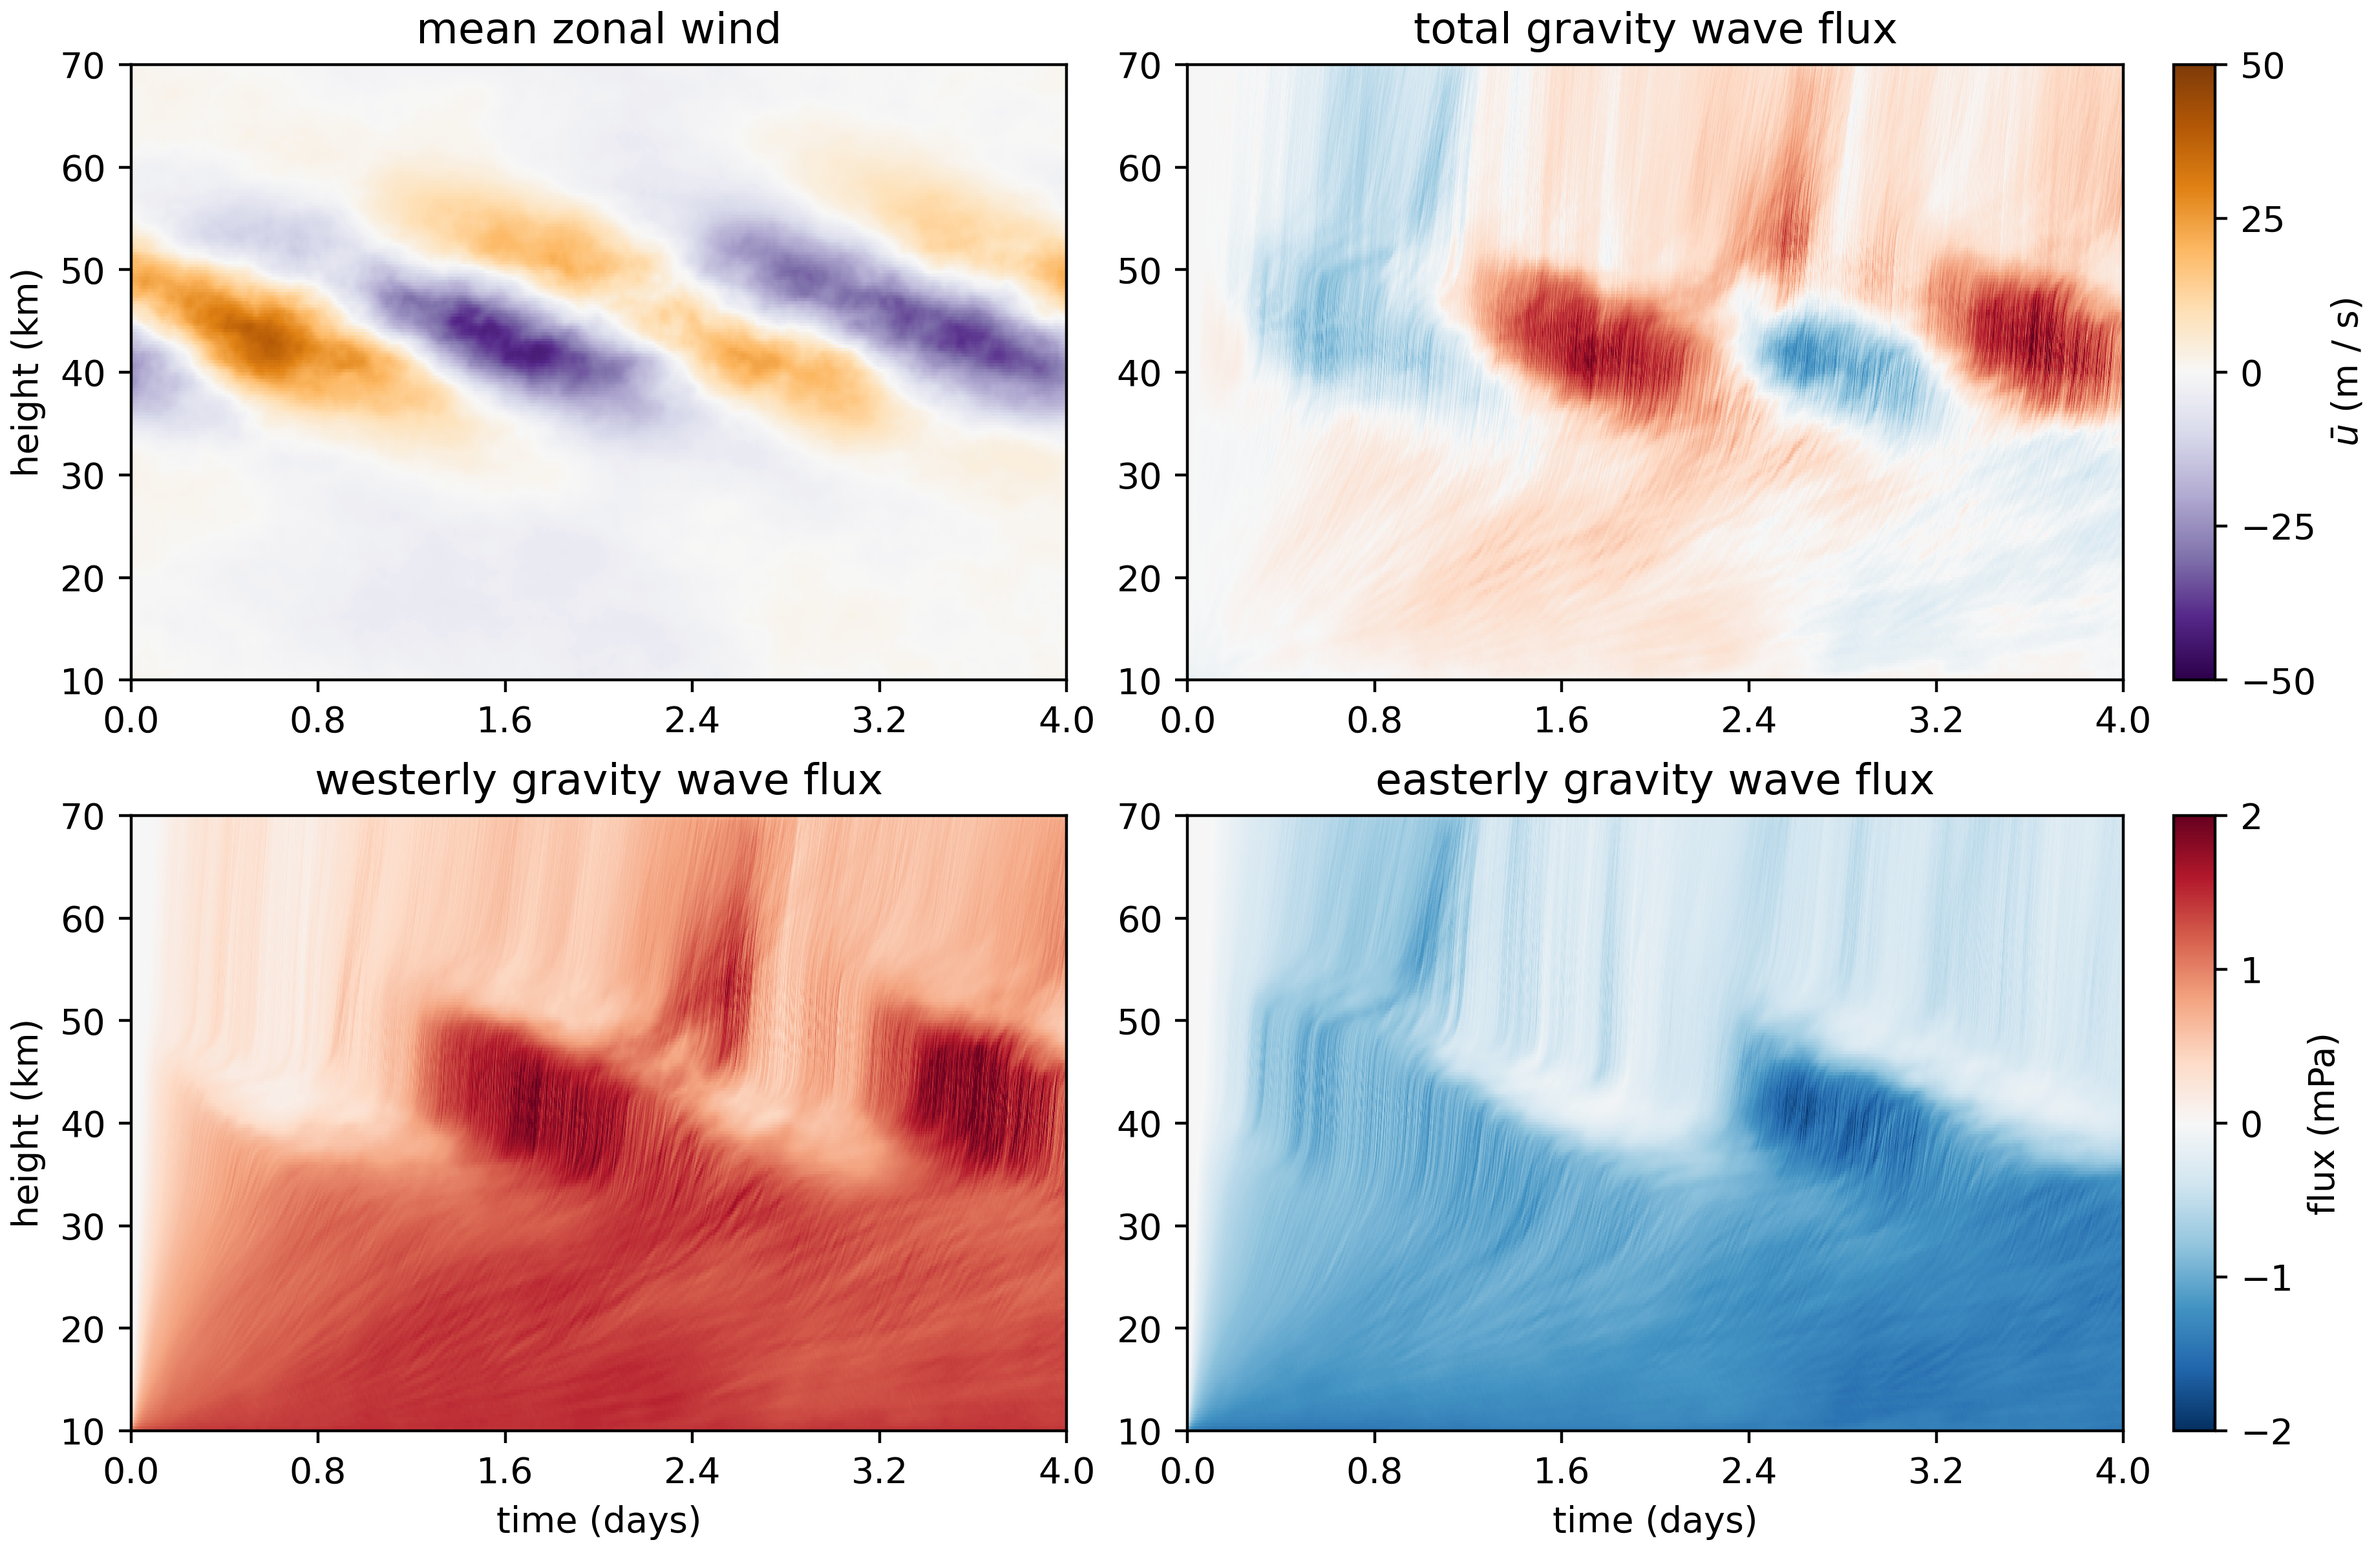
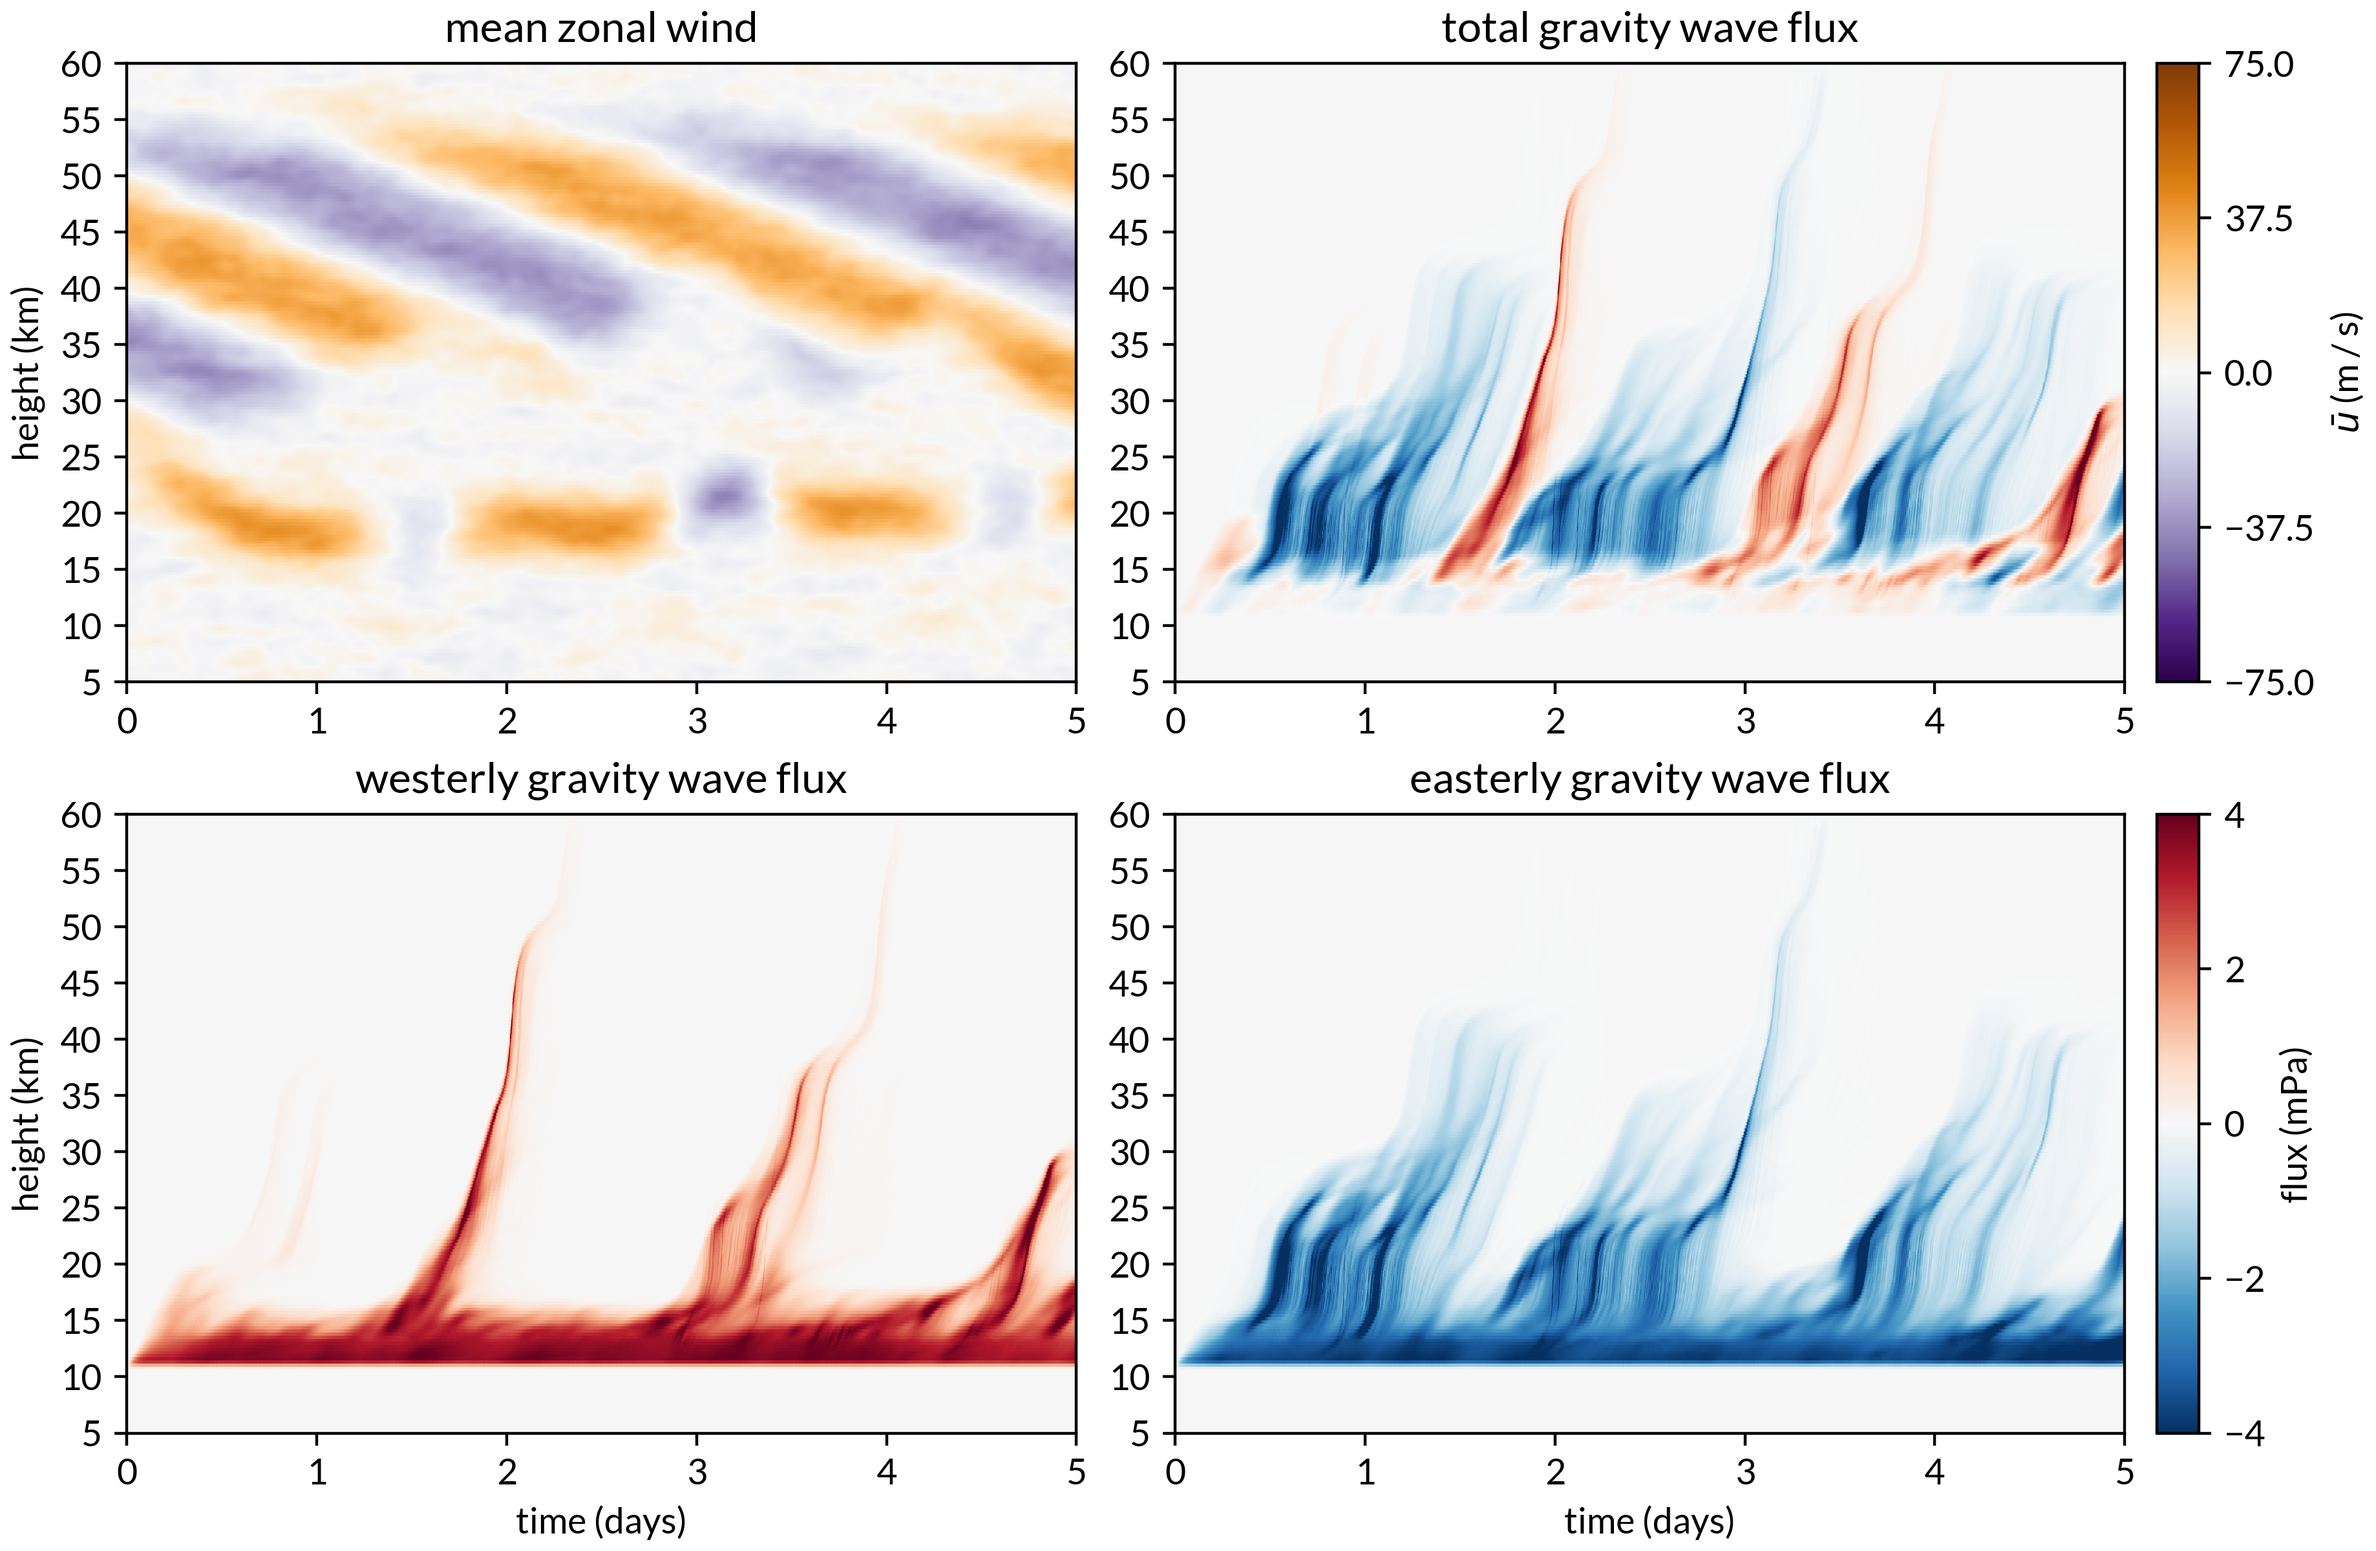
updated README

diff --git a/acceleration/scenarios/idealized.py b/acceleration/scenarios/idealized.py
@@ -6,7 +6,11 @@ import xarray as xr
 
 from msgwam import config
 from msgwam.constants import EPOCH
-from msgwam.utils import get_vertical_grids, make_colored_noise as noise
+from msgwam.utils import (
+    get_rho,
+    get_vertical_grids,
+    make_colored_noise as noise
+)
 
 from ..hyperparameters import scenarios as hp
 
@@ -40,9 +44,11 @@ def get_gated_oscillation(seed: int=177485) -> xr.Dataset:
     env = np.exp(-0.5 * ((z - z_gate[:, None]) / hp.gate_width) ** 2)
     u = env * gate[:, None]
 
-    tides = np.sin(2 * np.pi * (days[:, None] + z / hp.wvl))
+    tides = np.sin(2 * np.pi * (days[:, None] / 3 + z / hp.wvl))
     z_tide = noise(days, *hp.time_scales, *hp.z_tide_bounds, rng)
-    env = _make_env(z, z_tide[:, None], width=hp.shear_width)
+    z_top = 50e3 * np.ones_like(z_tide)[:, None]
+
+    env = _make_env(z, z_tide[:, None], z_top, width=hp.shear_width)
     u = u + env * hp.wave_amp * tides
 
     u = u + hp.noise_amp * noise(
@@ -56,6 +62,11 @@ def get_gated_oscillation(seed: int=177485) -> xr.Dataset:
     data = {'time' : time, 'z_centers' : z}
     data['u'] = (('time', 'z_centers'), u)
     data['v'] = (('time', 'z_centers'), v)
+
+    ones = np.ones((len(time), len(z)))
+    data['rho'] = (('time', 'z_centers'), get_rho(z) * ones)
+    data['N2'] = (('time', 'z_centers'), config.N_ref ** 2 * ones)
+    data['G2'] = (('time', 'z_centers'), 0 * ones)
 
     return xr.Dataset(data)
 

diff --git a/msgwam/plotting.py b/msgwam/plotting.py
@@ -100,7 +100,7 @@ def plot_integration(ds: xr.Dataset, output_path: str) -> None:
     axes = [fig.add_subplot(spec[j // 2, j % 2]) for j in range(4)]
     caxes = [fig.add_subplot(spec[i, 2]) for i in range(2)]
 
-    _, u_cbar = plot_time_series(ds['u'], 50, [axes[0], caxes[0]], 'PuOr_r')
+    _, u_cbar = plot_time_series(ds['u'], 75, [axes[0], caxes[0]], 'PuOr_r')
     u_cbar.set_label('$\\bar{u}$ (m / s)') # type: ignore
     axes[0].set_title('mean zonal wind')
 
@@ -108,7 +108,7 @@ def plot_integration(ds: xr.Dataset, output_path: str) -> None:
     pmfs = [ds['pmf_e'] + ds['pmf_w'], ds['pmf_e'], ds['pmf_w']]
 
     for name, pmf, ax in zip(names, pmfs, axes[1:]):
-        _, cbar = plot_time_series(1000 * pmf, 3, [ax, caxes[1]])
+        _, cbar = plot_time_series(1000 * pmf, 4, [ax, caxes[1]])
         cbar.set_label('flux (mPa)') # type: ignore
         ax.set_title(f'{name} gravity wave flux')
         

diff --git a/msgwam/__main__.py b/msgwam/__main__.py
@@ -4,10 +4,7 @@ from . import config
 from .integration import integrate
 from .plotting import (
     init_plotting,
-    plot_boundary,
-    plot_integration,
-    plot_ray_count,
-    plot_source
+    plot_integration
 )
 
 if __name__ == '__main__':
@@ -16,10 +13,4 @@ if __name__ == '__main__':
 
     ds = integrate()
     ds.to_netcdf(f'data/{config.name}/integration.nc')
-
-    plot_boundary(ds, f'plots/{config.name}/boundary.png')
     plot_integration(ds, f'plots/{config.name}/integration.png')
-    plot_source(f'plots/{config.name}/source.png')
-
-    if config.propagator_type == 'transient':
-        plot_ray_count(ds, f'plots/{config.name}/ray-count.png')

diff --git a/msgwam/means/base.py b/msgwam/means/base.py
@@ -216,7 +216,7 @@ class MeanState:
             v = 5 * get_bump(self.z_centers, center + 15e3, 10e3)
             v = v - 5 * get_bump(self.z_centers, center - 15e3, 10e3)
 
-            return np.vstack((u, v)), rho, config.N_ref * ones, G2 * ones
+            return np.vstack((u, v)), rho, config.N_ref * ones, G2
 
         kwargs = {
             'seconds' : min(config.tau_nudge / 4, 86400),

diff --git a/acceleration/scenarios/__init__.py b/acceleration/scenarios/__init__.py
@@ -1,6 +1,7 @@
 from msgwam import config
 
 from .mima import get_mima_scenario
+from .idealized import get_gated_oscillation
 from .plotting import plot_mean_state, plot_mean_scales
 
 __all__ = [

diff --git a/README.md b/README.md
@@ -11,15 +11,17 @@ parameterization, including machine learning approaches.
 
 ## From the command line
 
-To run the ray tracer you will need a Python 3 interpreter and an environment
-configured as in `environment.yml`. The ray tracer can be started by calling the
-`msgwam` directory as a module. You must pass a path to a configuration TOML
-file. For example
+The ray tracer can be started by calling the `msgwam` directory as a module. You
+must pass a path to a configuration TOML file. For example
 ```
+mkdir -p data/example/input
+mkdir -p plots/example
+
+python -m acceleration config/example.toml save-mean-state:gated-oscillation
 python -m msgwam config/gaussians.toml
 ```
-will save the integration output to `data/gaussians/integration.nc` and a plot
-to `plots/gaussians/integration.png`. For details on the various configuration
+will save the integration output to `data/example/integration.nc` and a plot
+to `plots/example/integration.png`. For details on the various configuration
 options, consult `config.py`.
 ![A high-resolution integration](integration.png)
 The figure above shows a fairly high-resolution integration of the model and was
